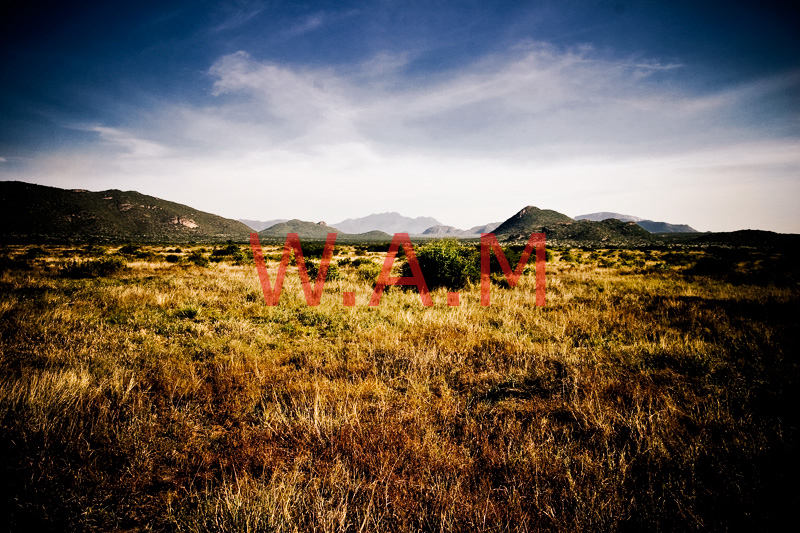
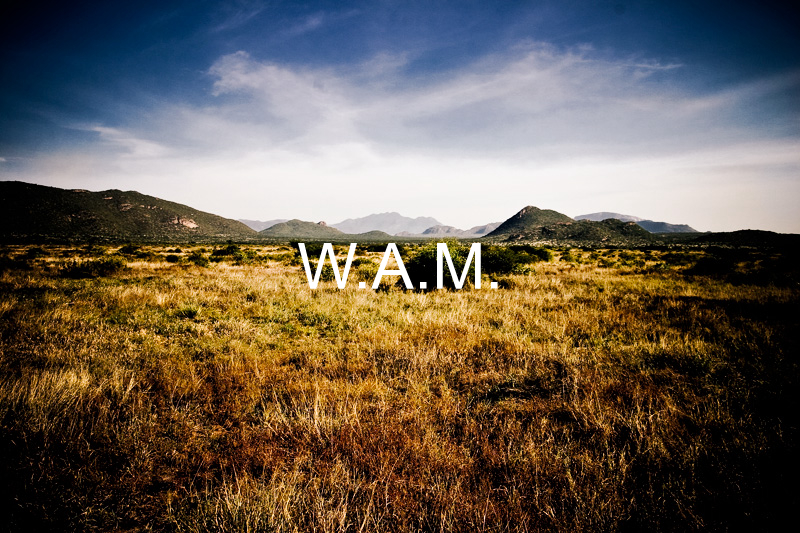
FIX default files name, change color and font size

Changed region(s): [[0.3125, 0.4203, 0.6875, 0.5704]]

diff --git a/app.js b/app.js
@@ -9,7 +9,7 @@ const addTextWatermarkToImage = async (
   ) => {
   try {
     const image = await Jimp.read(inputFile);
-    const font = await Jimp.loadFont(Jimp.FONT_SANS_32_BLACK);
+    const font = await Jimp.loadFont(Jimp.FONT_SANS_64_WHITE);
     const textData = {
       text,
       alignmentX: Jimp.HORIZONTAL_ALIGN_CENTER,
@@ -113,7 +113,7 @@ const startApp = async () => {
         name: 'filename',
         type: 'input',
         message: 'Type your watermark name:',
-        default: 'logo.png',
+        default: 'WAM.png',
       },
     ]);
 
